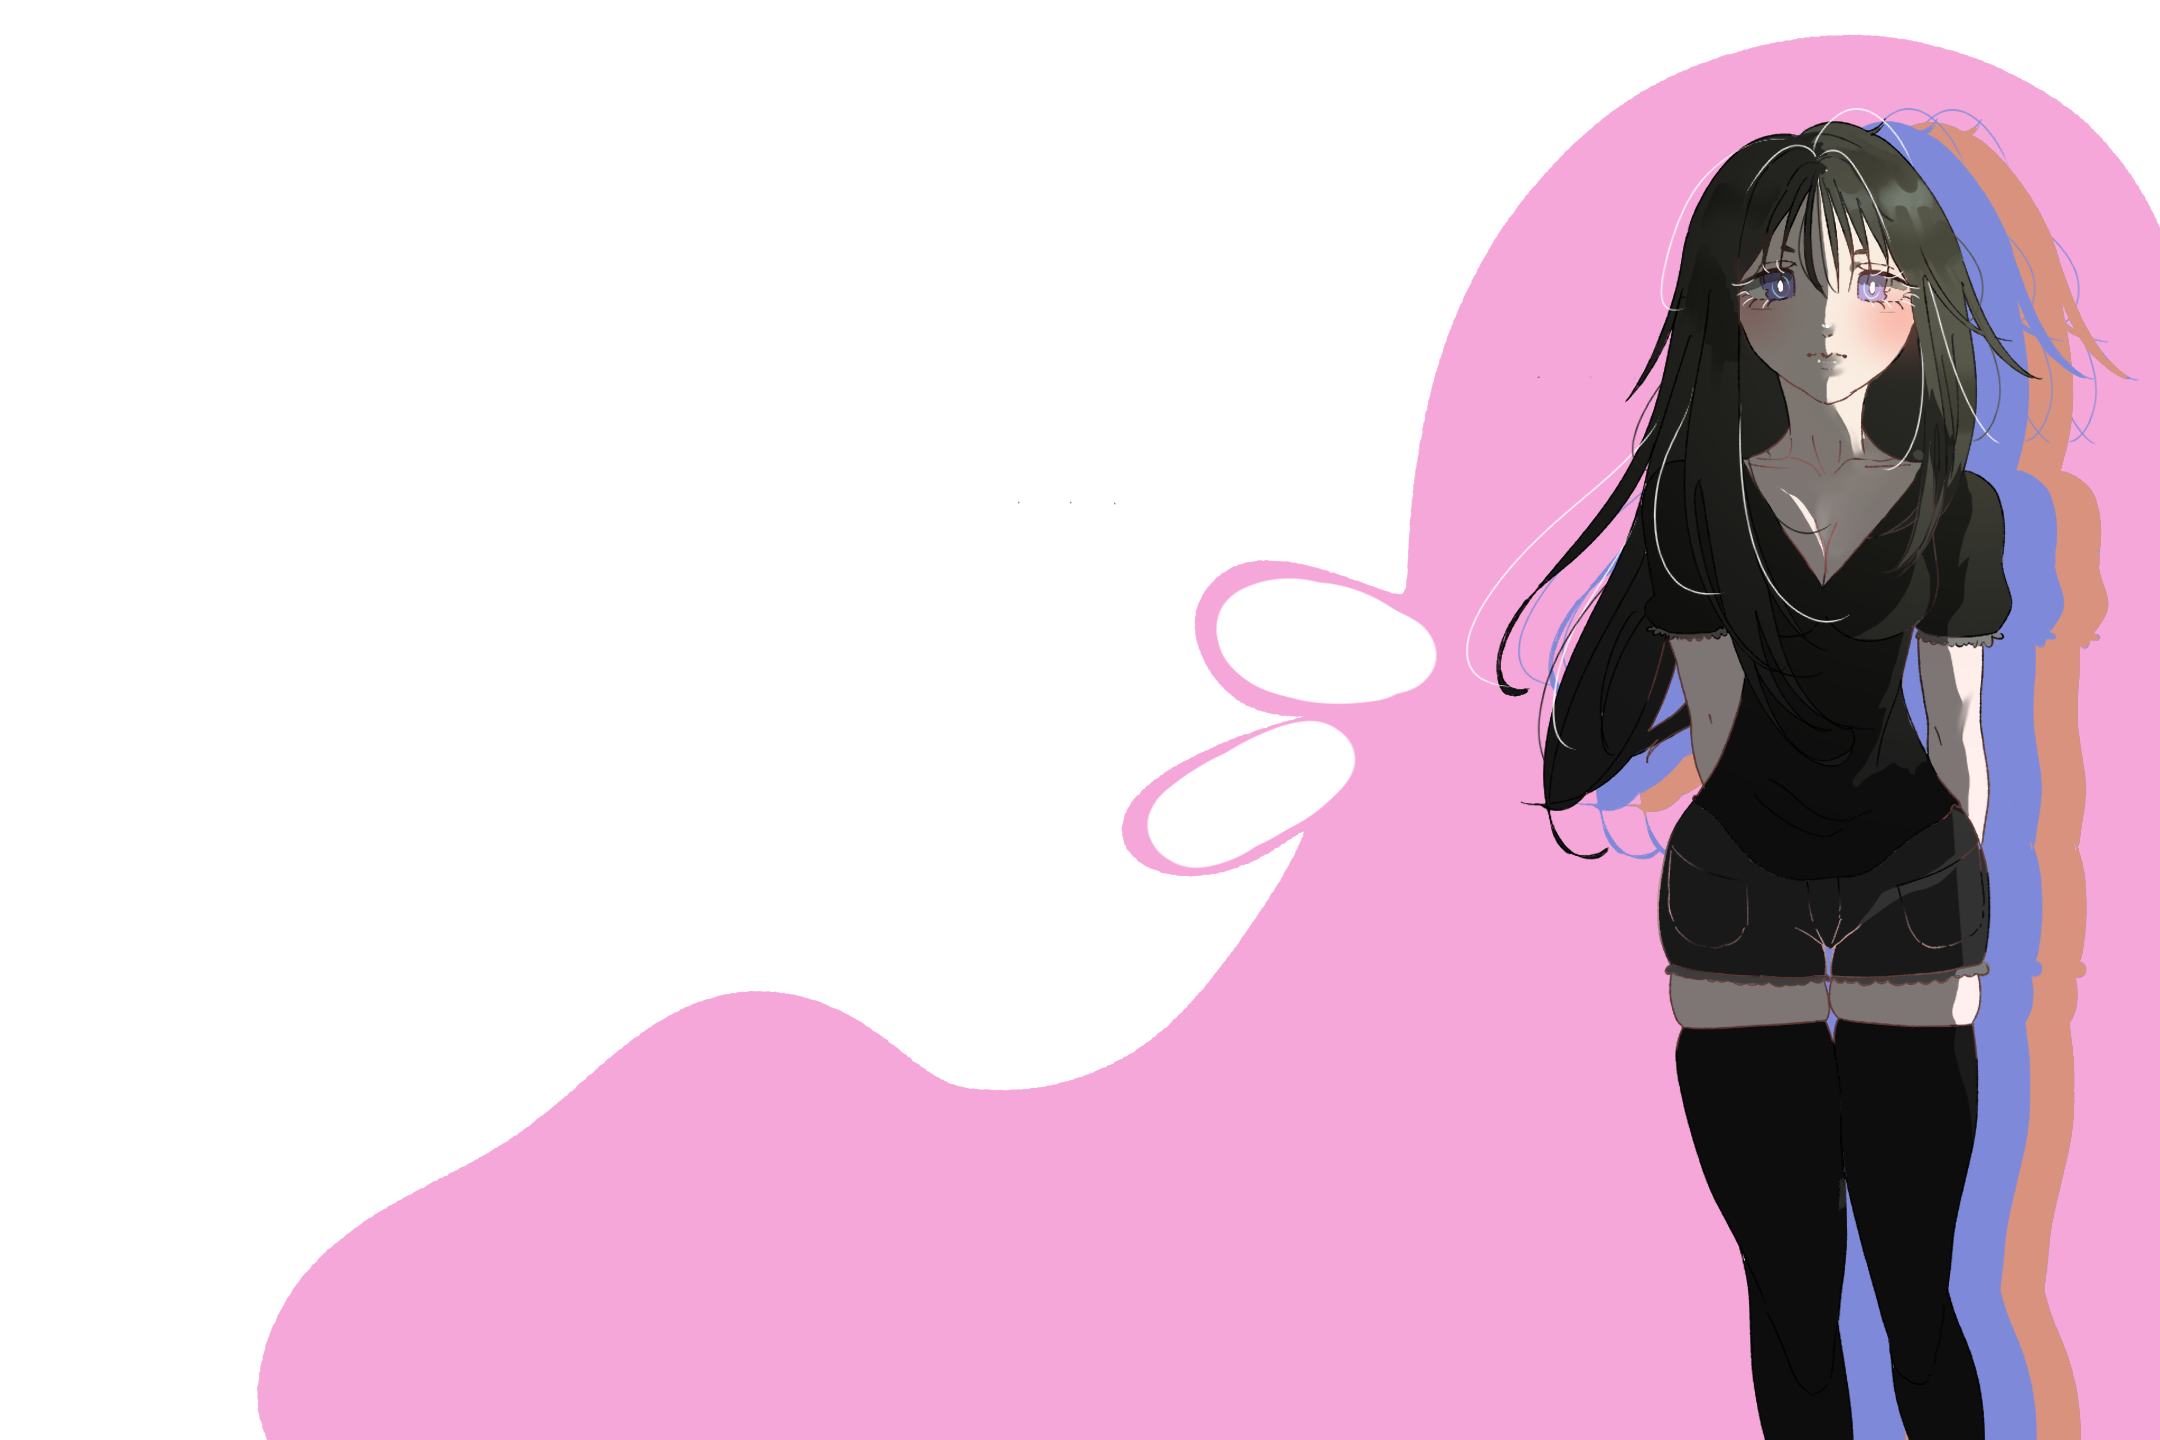
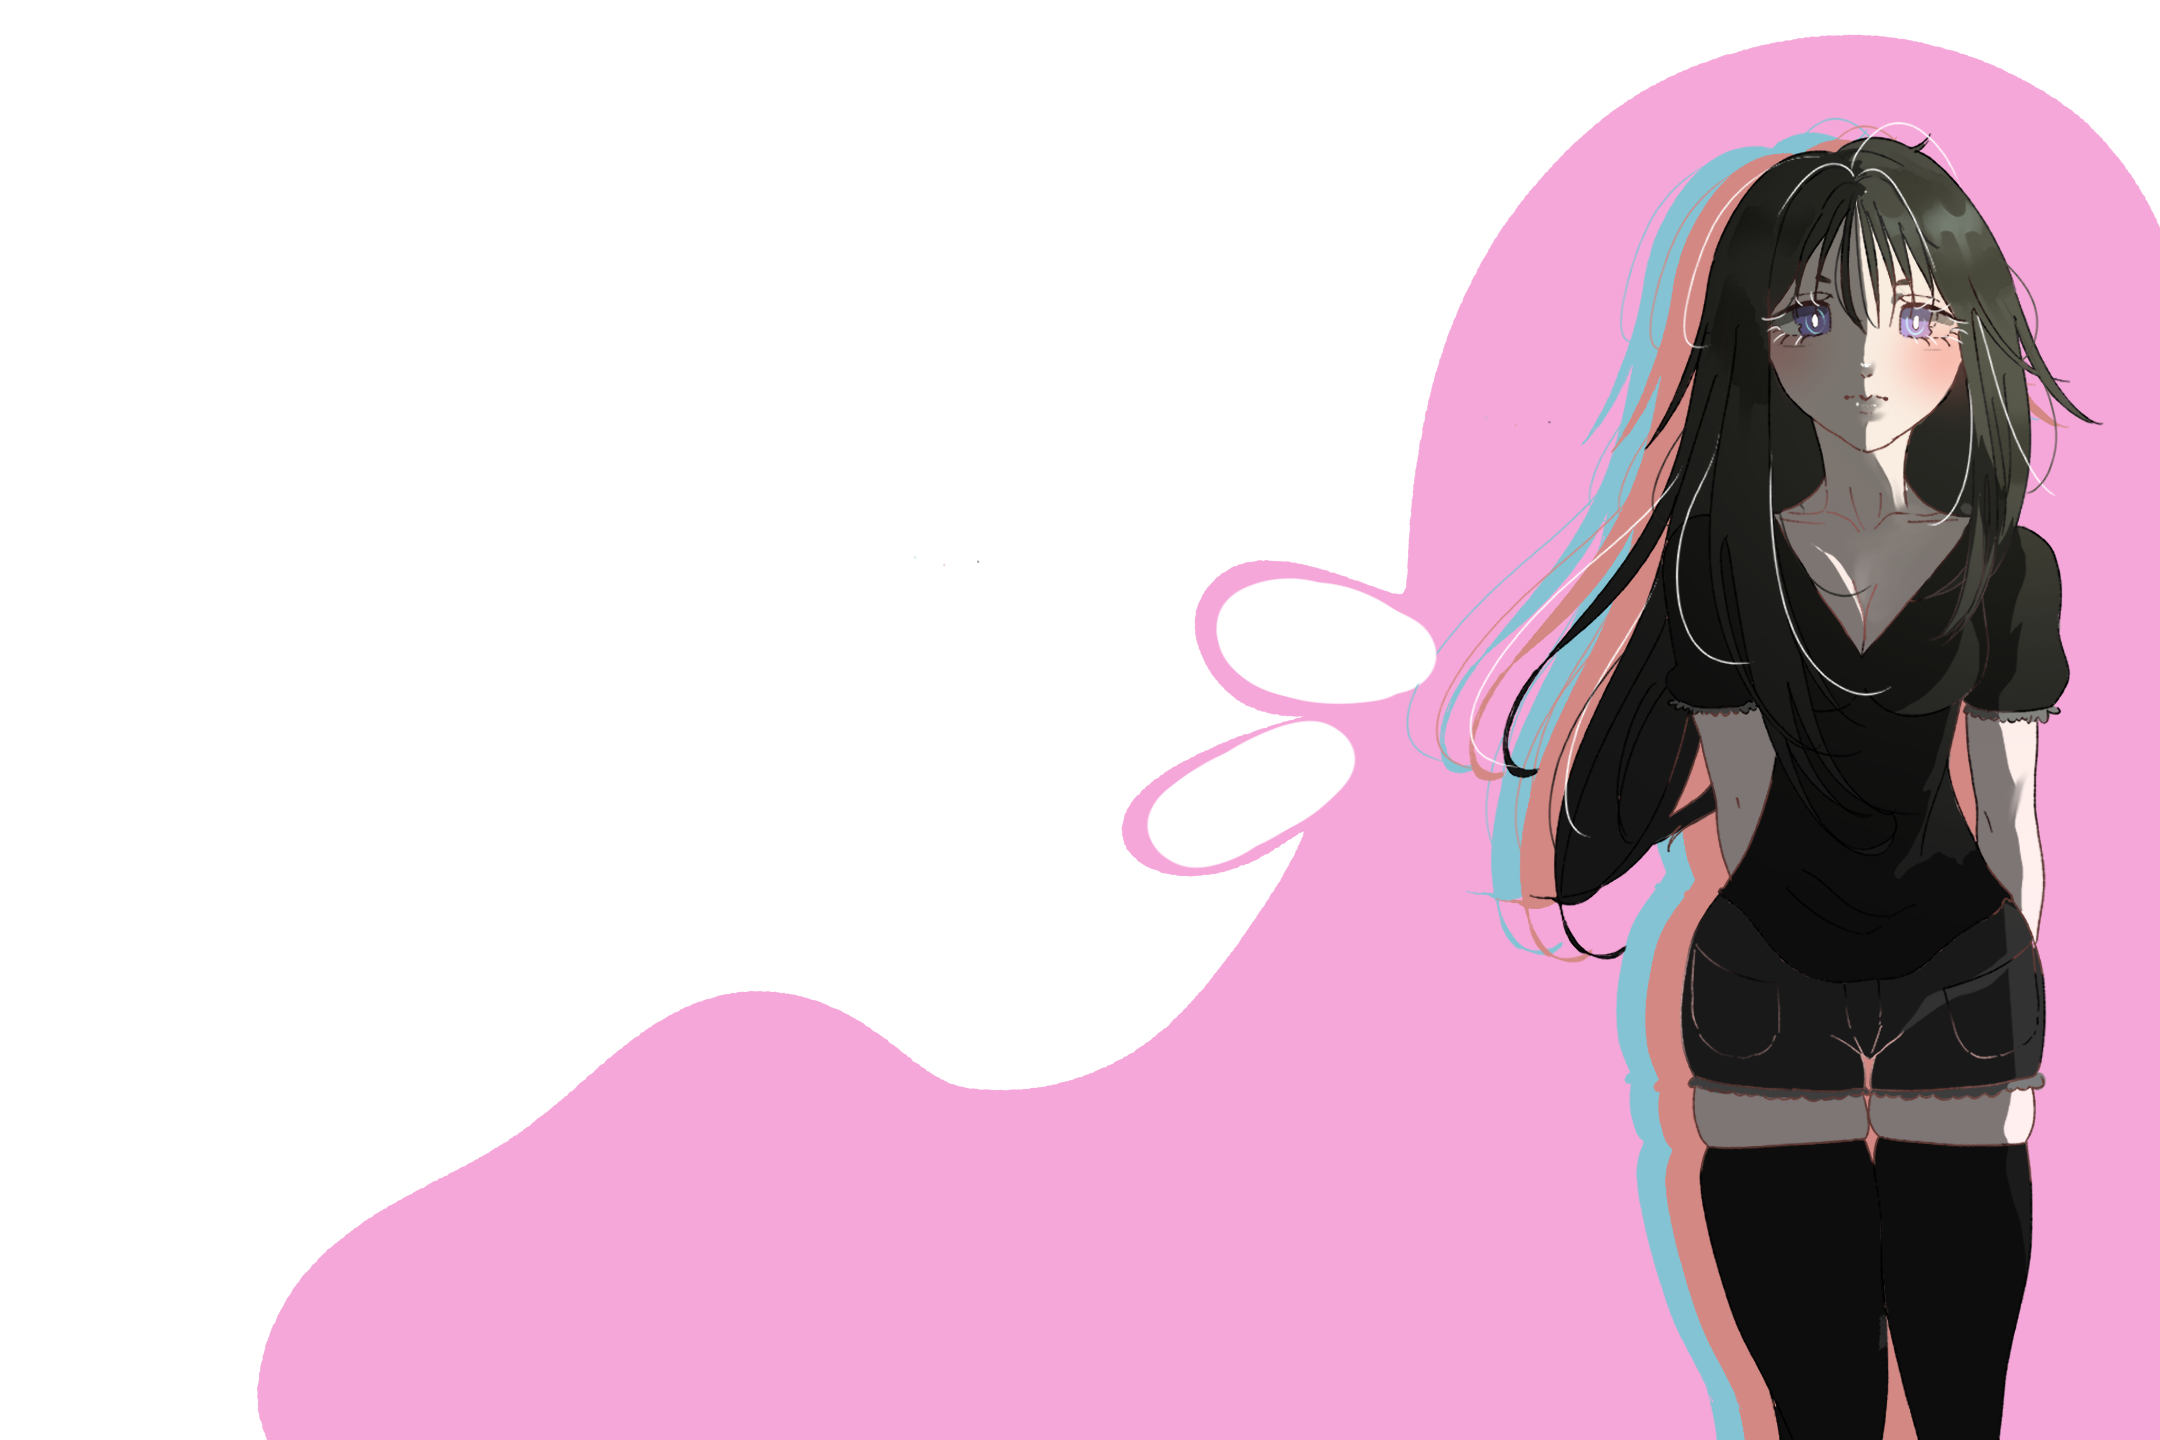
secuencia de las cutscenes de cada nivel
ahora se registra cuando has completado un nivel y he creado una bonus room universal modificable para cada uno,, en la que se desbloquea el recuerdo esencial y se redirige a la pantalla d victoria. ademqas he añadido un variante del enemigo muy simple para que no se mueva y dispare más rápido.

Changed region(s): [[0.6514, 0.0625, 0.9926, 1.0]]

diff --git a/src/scenes/roomScene.js b/src/scenes/roomScene.js
@@ -1,6 +1,7 @@
 import Player from "../player.js";
 import Bullet from "../bullet.js";
 import Enemy from "../enemy.js";
+import StaticEnemy from "../staticEnemy.js";
 
 // Sala dentro de la mente de una persona 
 export default class RoomScene extends Phaser.Scene {
@@ -12,6 +13,7 @@ export default class RoomScene extends Phaser.Scene {
     //  this.scene.start("room", { levelId: ... })
     init(data) {
         this.levelId = data.levelId || 1;
+        this.cleared = false;
     }
 
     create() {
@@ -25,8 +27,8 @@ export default class RoomScene extends Phaser.Scene {
         this.aura = this.add.image(240, 350, "effects", 5).setScale(1.6).setAlpha(0.5);
         this.player = new Player(this, 240, 350).setScale(2);
 
-        this.createEnemies();
-        this.createBullets();
+        //this.createEnemies();
+        //this.createBullets();
         this.createHUD();
 
         // Prueba, K quita 1 de vida
@@ -87,6 +89,13 @@ export default class RoomScene extends Phaser.Scene {
         this.enemy = new Enemy(this, 570, 230).setScale(2).play("paranoid_idle");
         this.enemies.add(this.enemy);
 
+        this.enemy = new Enemy(this, 570, 430).setScale(2).play("martyr_idle");
+        this.enemies.add(this.enemy);
+
+        this.enemy = new StaticEnemy(this, 570, 330).setScale(2).play("paranoid_idle");
+        this.enemies.add(this.enemy);
+
+
     }
 
     handleBulletPlayerCollision(player, bullet){
@@ -139,10 +148,20 @@ export default class RoomScene extends Phaser.Scene {
         this.add.rectangle(75, 316, 150, 6, 0x4a3222);   // barandillas
         this.add.rectangle(75, 384, 150, 6, 0x4a3222);
 
-        this.add.rectangle(725, 350, 150, 64, 0x8a6244).setAlpha(0.35);
-        this.add.rectangle(725, 316, 150, 6, 0x4a3222).setAlpha(0.35);
-        this.add.rectangle(725, 384, 150, 6, 0x4a3222).setAlpha(0.35);
-        this.add.image(725, 350, "icons", 16).setScale(2.5);   // X = bloqueado
+        // guardamoas puente a desbloqear
+        this.rightBridge = [
+            this.add.rectangle(725, 350, 150, 64, 0x8a6244).setAlpha(0.35),
+            this.add.rectangle(725, 316, 150, 6, 0x4a3222).setAlpha(0.35),
+            this.add.rectangle(725, 384, 150, 6, 0x4a3222).setAlpha(0.35)
+        ];
+        this.blockedIcon = this.add.image(725, 350, "icons", 16).setScale(2.5);  
+    }
+
+    unlockBridge() {
+        this.cleared = true;
+        this.rightBridge.forEach(piece => piece.setAlpha(1));
+        //this.rightBridge[0].setFillStyle(0xd9b38c);   // color más claro
+        this.blockedIcon.destroy();
     }
 
     // enemigos con baras de vida
@@ -203,6 +222,17 @@ export default class RoomScene extends Phaser.Scene {
     }
 
     update() {
+        // WIP de desbloqueo de caminosss
+        if (!this.cleared && this.enemies.countActive(true) === 0) {
+            this.unlockBridge();
+        }
+
+        // altura del puente hardcodeada por ahora oofff
+        if (this.cleared && this.player.x > 700 && Math.abs(this.player.y - 350) < 32) {
+            this.scene.start("bonus", { levelId: this.levelId });
+            return;
+        }
+
         // El aura sigue al jugador
         this.aura.x = this.player.x;
         this.aura.y = this.player.y;

diff --git a/src/scenes/bonusScene.js b/src/scenes/bonusScene.js
@@ -1,0 +1,64 @@
+import Player from "../player.js";
+
+// sala final del personaje que desbloquea el recuerdo esencial
+export default class BonusScene extends Phaser.Scene {
+    constructor() {
+        super({ key: "bonus" });
+    }
+
+    init(data) {
+        this.levelId = data.levelId || 1;
+        this.triggered = false;
+    }
+
+    create() {
+        this.cameras.main.setBackgroundColor("#0d0b14");
+
+        // isla de tamaño común
+        this.add.rectangle(400, 570, 500, 24, 0x3a2838);
+        this.add.tileSprite(150, 188, 500, 372, "dungeon", 225).setOrigin(0, 0).setTileScale(3);
+        this.add.tileSprite(150, 140, 500, 48, "dungeon", 33).setOrigin(0, 0).setTileScale(3);
+        this.add.rectangle(400, 350, 500, 420).setStrokeStyle(6, 0x2b1d2a);
+
+        // copia del puente qe hay por aahora de placeholder
+        this.add.rectangle(75, 350, 150, 64, 0x8a6244);
+        this.add.rectangle(75, 316, 150, 6, 0x4a3222);
+        this.add.rectangle(75, 384, 150, 6, 0x4a3222);
+
+        this.player = new Player(this, 240, 350).setScale(2);
+
+        // recuerdo esencial,, por ahora usa el sprite del personaje
+        this.memory = this.physics.add.sprite(400, 350, "people", this.levelId - 1).setScale(2);
+        // pequeña animacion flotante,, target es el qué anima, y es la posicion a la que queremos llegar, duration es el tiempo que tarda en llegar
+        // yoyo hace que vuelva a la pos og y repeat hace que entre en bucle
+        this.tweens.add({ targets: this.memory, y: 340, duration: 900, yoyo: true, repeat: -1 });
+
+        // cuando tocamos el sprite se muestra el recuerdo esencial
+        this.physics.add.overlap(this.player, this.memory, this.showMemory, null, this);
+    }
+
+    showMemory() {
+        if (this.triggered) return;
+        this.triggered = true;
+        this.player.canMove = false;
+
+        this.add.rectangle(400, 300, 800, 600, 0x000000, 0.85).setDepth(10);
+
+        // imagen del recuerdo en funcion del nivel
+        let key = "memory" + this.levelId;
+        if (!this.textures.exists(key)) key = "level" + this.levelId;
+        const img = this.add.image(400, 265, key).setDepth(11);
+        img.setScale(Math.min(700 / img.width, 440 / img.height));
+
+        // botón para terminar el nivel
+        const bg = this.add.nineslice(400, 540, "buttons", 0, 80, 15, 5, 5, 5, 5).setScale(3).setDepth(12);
+        this.add.text(400, 538, "BORRAR RECUERDO", { font: "bold 18px monospace", fill: "#f3e9e4" })
+            .setOrigin(0.5).setDepth(13);
+        bg.setInteractive({ useHandCursor: true });
+        bg.on("pointerover", () => bg.setTint(0xffc9e8));
+        bg.on("pointerout", () => bg.clearTint());
+        bg.on("pointerup", () => {
+            this.scene.start("result", { win: true, levelId: this.levelId });
+        });
+    }
+}

diff --git a/src/enemy.js b/src/enemy.js
@@ -8,7 +8,11 @@ export default class Enemy extends Phaser.Physics.Arcade.Sprite {
 
         this.maxLife = 5;
         this.life = this.maxLife;
-        this.cooldown = 3000;
+
+        // ms entre disparos. con las variantes podemos cambiarlo
+        this.baseCooldown = 3000;   
+        this.cooldown = this.baseCooldown;
+        this.canMove = true;
         this.isMoving = false;
 
         // Fila 10 Verde Grande: Frame 82 = 5 bolitas verdes (vida al máximo)
@@ -73,7 +77,7 @@ export default class Enemy extends Phaser.Physics.Arcade.Sprite {
             let playerX = this.scene.player.x;
             let playerY = this.scene.player.y;
             let distance = Phaser.Math.Distance.Between(this.x, this.y, playerX, playerY);
-            if (distance > 250 && distance < 600){
+            if (this.canMove && distance > 250 && distance < 600){
                 this.isMoving = true;
                 this.move(playerX, playerY);
             }
@@ -83,7 +87,7 @@ export default class Enemy extends Phaser.Physics.Arcade.Sprite {
             }
 
             if (this.cooldown <= 0){
-                this.cooldown = 3000;
+                this.cooldown = this.baseCooldown;
                 this.shoot(playerX, playerY);
             }
             this.cooldown -= dt;

diff --git a/src/scenes/parkScene.js b/src/scenes/parkScene.js
@@ -71,9 +71,12 @@ export default class ParkScene extends Phaser.Scene {
             person.on("pointerup", () => this.scene.start("room"));
         }*/
 
+        let done = this.registry.get("completedLevels") || [];
         this.chans = [];
         for (let i = 0; i < positions.length; i++) {
-            this.chans.push(new Chan(this, positions[i][0], positions[i][1], i + 1));
+            if (!done.includes(i+1)) {
+                this.chans.push(new Chan(this, positions[i][0], positions[i][1], i + 1));
+            }
         }
     }
 
@@ -168,6 +171,9 @@ export default class ParkScene extends Phaser.Scene {
         this.add.text(52, 30, "Almas: 0", { font: "bold 16px monospace", fill: "#f3e9e4" }).setOrigin(0, 0.5);
 
         this.add.nineslice(715, 30, "buttons", 0, 50, 15, 5, 5, 5, 5).setScale(3);
-        this.add.text(715, 30, "Mentes 0/10", { font: "bold 16px monospace", fill: "#f3e9e4" }).setOrigin(0.5);
+        //this.add.text(715, 30, "Mentes 0/10", { font: "bold 16px monospace", fill: "#f3e9e4" }).setOrigin(0.5);
+
+        let done = this.registry.get("completedLevels") || [];
+        this.add.text(715, 30, "Mentes " + done.length + "/10", { font: "bold 16px monospace", fill: "#f3e9e4" }).setOrigin(0.5);
     }
 }

diff --git a/src/game.js b/src/game.js
@@ -4,6 +4,7 @@ import SettingsScene from "./scenes/settingsScene.js";
 import CreditsScene from "./scenes/creditsScene.js";
 import ParkScene from "./scenes/parkScene.js";
 import RoomScene from "./scenes/roomScene.js";
+import BonusScene from "./scenes/bonusScene.js";
 import HouseScene from "./scenes/houseScene.js";
 import ShopScene from "./scenes/shopScene.js";
 import PauseScene from "./scenes/pauseScene.js";
@@ -21,11 +22,11 @@ var config = {
 		default : 'arcade',
 		arcade: {
 			gravity : { y: 0},
-			debug: true
+			debug: false
 		}
 	},
 	// La primera de la lista es la que arranca
-	scene: [BootScene, TitleScene, SettingsScene, CreditsScene, ParkScene, RoomScene, HouseScene, ShopScene, PauseScene, ResultScene]
+	scene: [BootScene, TitleScene, SettingsScene, CreditsScene, ParkScene, RoomScene, BonusScene, HouseScene, ShopScene, PauseScene, ResultScene]
 };
 
 var game = new Phaser.Game(config);

diff --git a/src/scenes/resultScene.js b/src/scenes/resultScene.js
@@ -11,6 +11,15 @@ export default class ResultScene extends Phaser.Scene {
     init(data) {
         this.win = data.win || false;
         this.levelId = data.levelId || 1;
+
+        // guardamos el nivel completado en el registro para que el parque lo sepa. el resgistry es como un almacén global que comparten las escenas
+        if (this.win) {
+            let done = this.registry.get("completedLevels") || [];
+            if (!done.includes(this.levelId)) {
+                done.push(this.levelId);
+                this.registry.set("completedLevels", done);
+            }   
+        }
     }
 
     create() {

diff --git a/src/staticenemy.js b/src/staticenemy.js
@@ -1,0 +1,17 @@
+import Enemy from "./enemy.js";
+
+// variante provisional de enemigo estático y qe dispara el doble de veces :P
+const FIRE_RATE_MULTIPLIER = 1.5;
+
+export default class StaticEnemy extends Enemy {
+    constructor(scene, x, y){
+        super(scene, x, y);
+
+        // bool para que no se mueva, solo dispare
+        this.canMove = false;
+        this.baseCooldown = this.baseCooldown / FIRE_RATE_MULTIPLIER;
+        this.cooldown = this.baseCooldown;
+
+        this.body.setImmovable(true);
+    }
+}

diff --git a/src/scenes/bootScene.js b/src/scenes/bootScene.js
@@ -40,8 +40,14 @@ preload(){
 
 
         for (let i = 1; i <= 10; i++) {
+            // imagenes de los niveles
             this.load.image("level" + i, "assets/Level" + i + ".png");
+            // imagenes de las memorias
+            this.load.image("memory" + i, "assets/Memories/memory" + i + ".png");
         }
+
+        
+
 
 
         // Bala

diff --git a/src/chan.js b/src/chan.js
@@ -27,4 +27,6 @@ export default class Chan extends Phaser.GameObjects.Sprite {
     isPlayerNear(player) {
         return Phaser.Math.Distance.Between(this.x, this.y, player.x, player.y) < this.triggerRadius;
     }
+
+
 }
